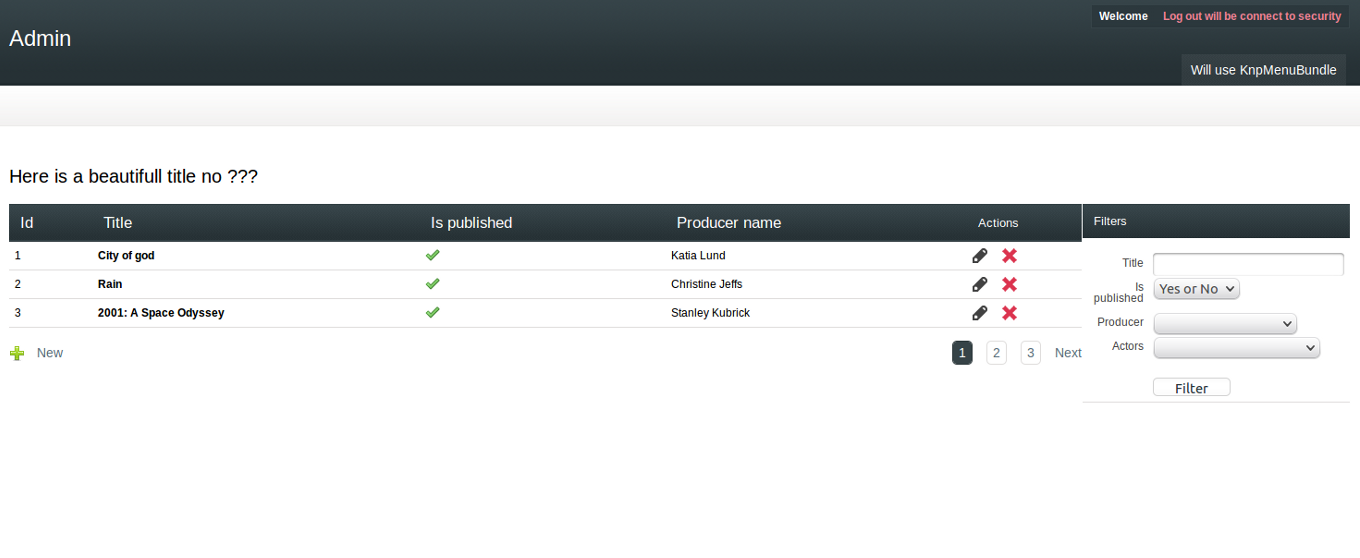
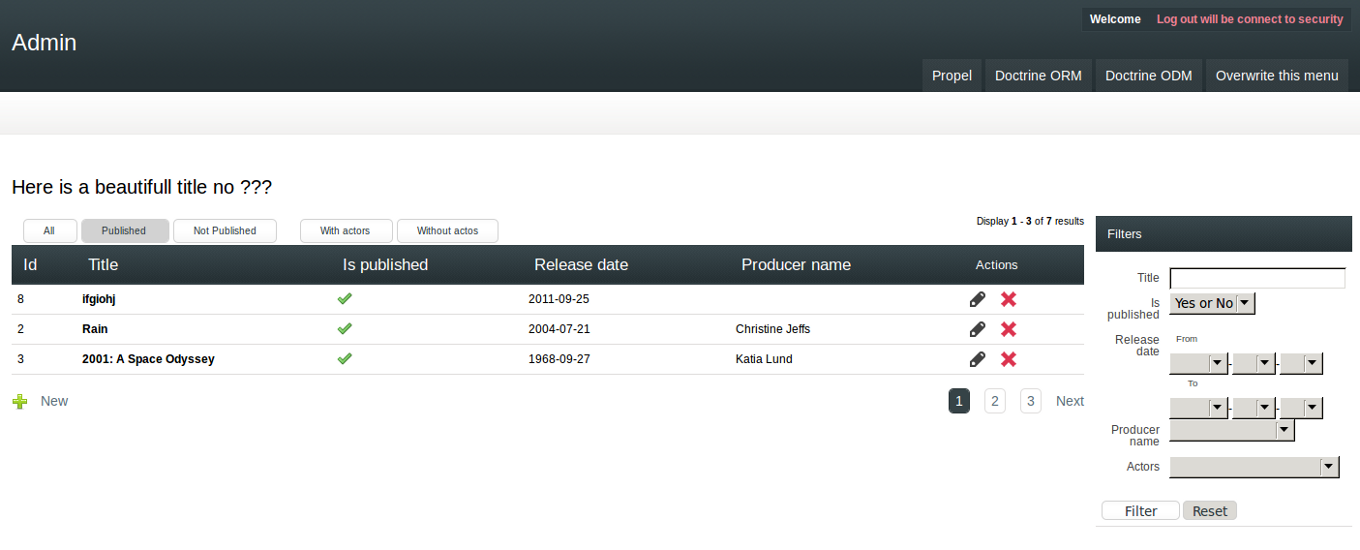
Implement scope filtering

diff --git a/Resources/public/css/all.css b/Resources/public/css/all.css
@@ -190,7 +190,7 @@ table tr td {
   padding-bottom: 5px; }
   .list_nbresults b {
     font-weight: bold; }
-    
+
 ul.pagination {
   float: right;
   margin-top: 20px; }
@@ -275,6 +275,35 @@ ul.actions li a {
   background: #ffdddd;
   border: 1px solid red;
   color: red; }
+
+.list_scope_group {
+  float: left;
+  padding: 10px; }
+
+.list_scope_group a {
+  -moz-border-radius: 5px;
+  -webkit-border-radius: 5px;
+  -o-border-radius: 5px;
+  -ms-border-radius: 5px;
+  -khtml-border-radius: 5px;
+  border-radius: 5px;
+  outline: none;
+  height: 20px;
+  border: 1px solid #d2d2d2;
+  color: #2a363b;
+  padding: 5px;
+  padding-left: 20px;
+  padding-right: 20px;
+  margin: 2px;
+  text-decoration: none; }
+  .list_scope_group a.inactive {
+    background: url(/bundles/admingeneratorgenerator/images/submit_background.png) repeat-x; }
+  .list_scope_group a.active {
+    background: #d2d2d2; }
+  .list_scope_group a:hover {
+    background: url(/bundles/admingeneratorgenerator/images/submit_background_hover.png) repeat-x;
+    cursor: pointer;
+    cursor: hand; }
 
 h1 {
   float: left;
@@ -452,53 +481,3 @@ fieldset.form_block {
       width: 3em; }
 .filters table tr:hover {
   background-color: white; }
-
-ul.menu {
-  list-style: none;
-  margin: 0;
-  padding: 0; }
-  ul.menu * {
-    margin: 0;
-    padding: 0; }
-  ul.menu a {
-    display: block;
-    color: black;
-    text-decoration: none; }
-  ul.menu .sub {
-    background: white url(../images/arrow.gif) 138px 16px no-repeat; }
-  ul.menu li {
-    float: left;
-    position: relative;
-    margin-right: 2px; }
-    ul.menu li.spacer {
-      float: left;
-      position: relative;
-      height: 1px;
-      background: #e0dedd; }
-    ul.menu li ul {
-      position: absolute;
-      top: 30px;
-      left: 0;
-      background: white;
-      display: none;
-      opacity: 0;
-      list-style: none;
-      border: 1px solid #e0dedd;
-      border-top: none; }
-      ul.menu li ul ul {
-        left: 148px;
-        top: -1px; }
-      ul.menu li ul li {
-        position: relative;
-        border-top: none;
-        width: 148px;
-        margin: 0; }
-        ul.menu li ul li a {
-          display: block;
-          float: left;
-          width: 132px;
-          padding: 15px 10px 15px 10px;
-          background-color: white;
-          font-size: 1.2em; }
-          ul.menu li ul li a:hover {
-            background-color: #eeeeee; }

diff --git a/Resources/public/css/scopes.sass b/Resources/public/css/scopes.sass
@@ -1,0 +1,24 @@
+=buttons_border
+  +border-radius(5px)
+.list_scope_group
+  float: left
+  padding: 10px
+.list_scope_group a
+  +buttons_border
+  outline: none
+  height: 20px 
+  border: 1px solid #D2D2D2
+  color: #2A363B
+  padding: 5px
+  padding-left: 20px
+  padding-right: 20px
+  margin: 2px
+  text-decoration: none
+  &.inactive
+    background: url(/bundles/admingeneratorgenerator/images/submit_background.png) repeat-x
+  &.active
+    background: #D2D2D2
+  &:hover
+    background: url(/bundles/admingeneratorgenerator/images/submit_background_hover.png) repeat-x
+    cursor: pointer
+    cursor: hand

diff --git a/Resources/public/css/screen.sass b/Resources/public/css/screen.sass
@@ -86,6 +86,7 @@ body
   float: right
                  
 @import content.sass
+@import scopes.sass
 @import typography.sass
 @import double_list.sass
 @import forms.sass
